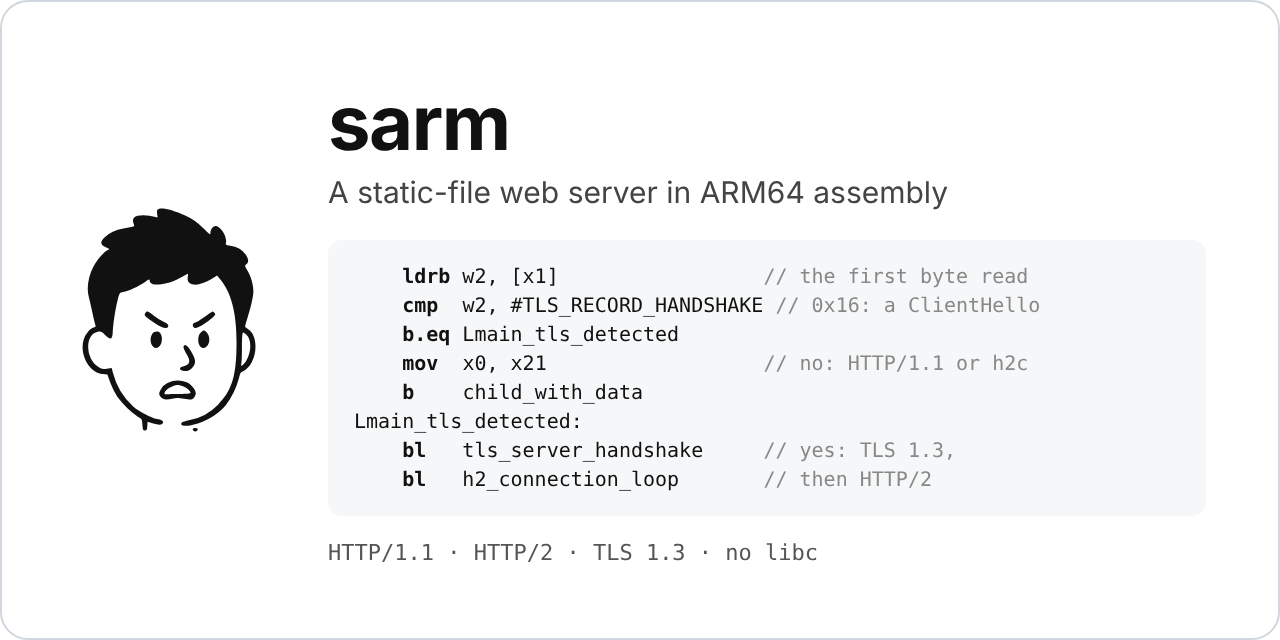
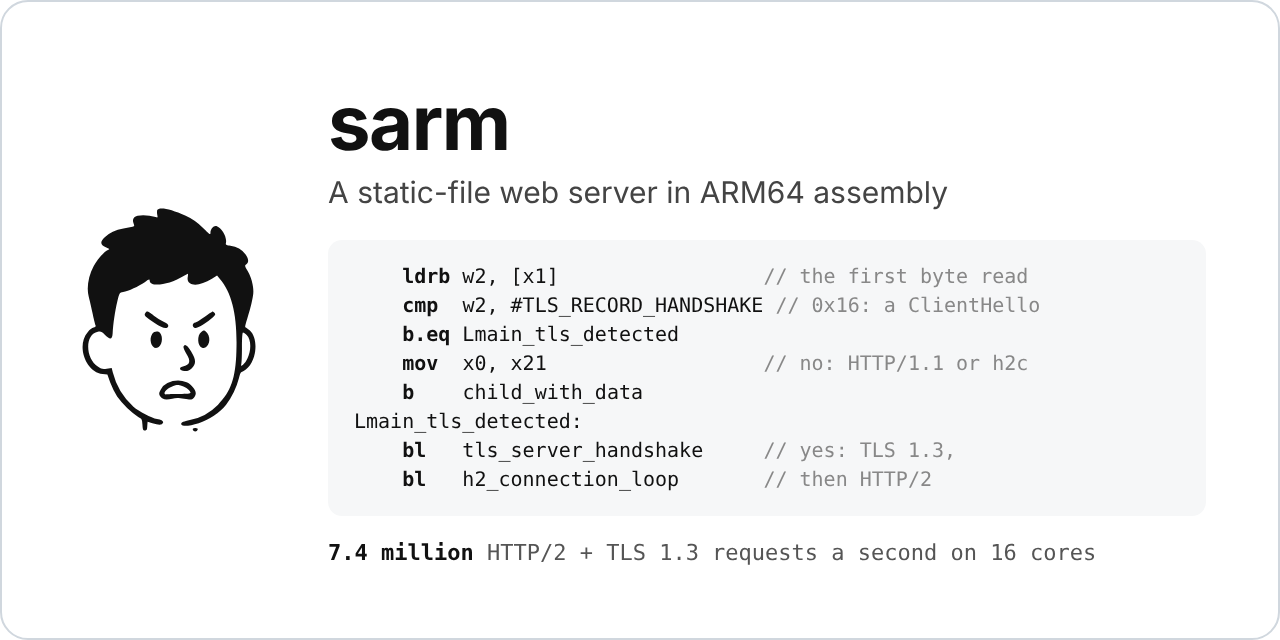
README: lead with how fast it is
The line under the title and the cover now give 7.4 million HTTP/2 +
TLS 1.3 requests a second on a 16-core Graviton2, and a new How fast
section has the two-box figures for each protocol, the laptop figures
and the per-handshake and per-request costs, all from docs/SCRIPTS.md,
docs/MULTICORE-BASELINE.md and docs/HISTORY.md.

Claude-Session: https://claude.ai/code/session_013uTbHgZ78Df5s3yTgQucse

Changed region(s): [[0.25, 0.8438, 0.875, 0.875]]

diff --git a/README.md b/README.md
@@ -1,16 +1,16 @@
 <h1 align="center">sarm</h1>
 
-<p align="center">A static-file web server written by hand in ARM64 assembly: HTTP/1.1, HTTP/2 and TLS 1.3, with no libc.</p>
+<p align="center">7.4 million HTTP/2 requests a second, over TLS 1.3, on 16 cores: a static-file web server written by hand in ARM64 assembly, with no libc.</p>
 
 <p align="center">
   <a href="#quick-start"><b>Quick start</b></a> &nbsp;·&nbsp;
   <a href="#documents">Documents</a> &nbsp;·&nbsp;
-  <a href="#how-it-works">How it works</a> &nbsp;·&nbsp;
-  <a href="docs/SECURITY.md">Security</a>
+  <a href="#how-fast">How fast</a> &nbsp;·&nbsp;
+  <a href="#how-it-works">How it works</a>
 </p>
 
 <p align="center">
-  <img src="docs/cover.png" alt="sarm's first-byte protocol detection, in its own assembly" width="100%">
+  <img src="docs/cover.png" alt="sarm's first-byte protocol detection, in its own assembly, and its HTTP/2 throughput" width="100%">
 </p>
 
 `sarm` has no libc, no linked libraries and no heap: it talks to the kernel
@@ -48,6 +48,26 @@ curl -k --http2 https://127.0.0.1:8080/
 | [History](docs/HISTORY.md) | What was changed, what it measured, and what was learned doing it |
 | [Multicore baseline](docs/MULTICORE-BASELINE.md) | The throughput work in order, and the noise band around each measurement |
 | [Scripts](docs/SCRIPTS.md) | The tooling: tests, profilers, benchmarks, analysers and the optimisation harness |
+
+## How fast
+
+On a 16-core Graviton2 server (`c6gn.4xlarge`), driven over the network from a
+second machine three times its size:
+
+| Protocol | Requests a second | Server CPU |
+| -------- | ----------------: | ---------: |
+| HTTP/2 + TLS 1.3 | **7,363,824** | 94% |
+| HTTP/2 (h2c) | **7,375,611** | 97% |
+| HTTP/1.1 | **635,706** | 98% |
+
+On a 12-core Apple Silicon laptop over loopback, with only 6 connections so
+the load generator and the server aren't fighting for cores: 303,988 h2c,
+263,565 HTTP/2 + TLS and 102,714 HTTP/1.1 requests a second. A full TLS 1.3
+handshake costs the server about 190 µs of CPU, a whole page load on a new TLS
+connection about 340 µs, and each further HTTP/2 request about 9 µs, most of
+it in system calls. [Multicore baseline](docs/MULTICORE-BASELINE.md) and
+[Scripts](docs/SCRIPTS.md#renting-the-hardware-the-ec2-scripts) say how each
+figure was measured, and what can make such figures misleading.
 
 ## How it works
 
